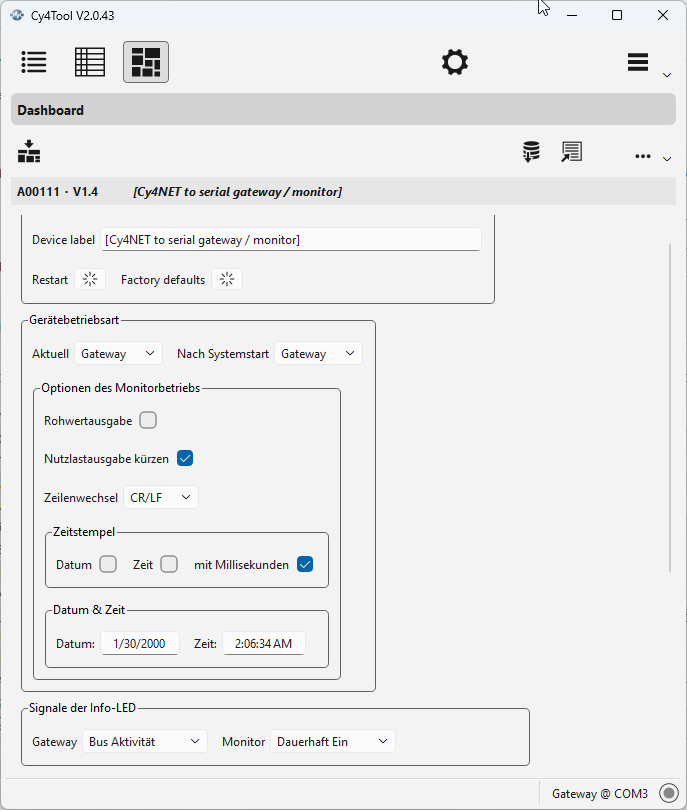
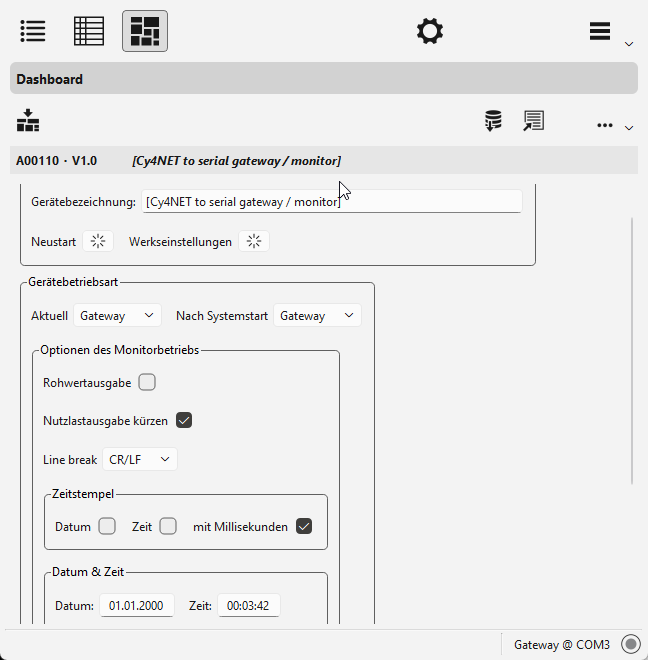
Update some images

diff --git a/Src/Settings.h b/Src/Settings.h
@@ -46,7 +46,7 @@ class Settings
         QLocale         locale                              = QLocale(QLocale::English, QLocale::UnitedStates);
         bool            autoSerialPortDetection             = true;
         QString         gatewaySerialPort                   = QString::fromLatin1(serialPortName);
-        Socket          gatewaySocket                       = Socket(QStringLiteral("192.168.168.29"), 16214);
+        Socket          gatewaySocket                       = Socket(QStringLiteral("192.0.2.1"), 4001);
         ConnectionType  currentGatewayConnection            = ConnectionType::Serial;
         QString         onlineResourcesUrl                  = QStringLiteral("http://www.cy4net.org");
         QString         localCy4ToolDataDirectoryPath       = QDir::toNativeSeparators(QDir::homePath() + "/.Cy4NET");

diff --git a/README_PERIDOT_Nov-24-232903-2026_Conflict.md b/README_PERIDOT_Nov-24-232903-2026_Conflict.md
@@ -1,0 +1,73 @@
+# Cy4Tool
+
+Ein leistungsstarkes PC-Werkzeug für die Administration, Konfiguration und Instandhaltung von **Cy4NET-Komponenten** des freien Peer-To-Peer Kommunikationssystems Cy4NET: https://cy4net.org
+
+## Über die Anwendung
+
+**Cy4Tool** wurde entwickelt, um Anwendern die Handhabung von Cy4NET-Buskomponenten in einem Cy4NET-Netzwerk zu erleichtern. Die Anwendung bündelt wichtige Diagnose-, Wartungs- und Verwaltungsfunktionen in einer übersichtlichen Desktop-Oberfläche. Um mit den Teilnehmern des Cy4NET-Netzwerks in Kontakt zu treten, verbindet sich die Anwendung als Busclient über ein entsprechendes Gateway-Gerät mit dem Bus. Je nach vorhandener Hardware kann die Verbindung mittels USB, RS232 oder TCP hergestellt werden. 
+
+Die Eigenschaften und Funktionen einer Anwendung sind im Cy4NET-Protokoll in Form von Diensten organisiert. Diese Dienste sind im Grunde eine Abstraktion von Speicherbereichen, die beschrieben oder gelesen werden können. Welche Informationen und Datenstrukturen dabei übertragen werden, ist jeweils mit dem Dienst definiert. Mithilfe des Cy4Tools können diese Dienste zur Kontaktierung der Busknoten genutzt werden.
+Die Funktionalität einer Anwendung wird dabei durch eine sogenannte Dienstekarte (Servicemap) abgebildet. Neben den Diensten der Anwendung ist darin auch eine Oberfläche mit Steuerelementen und Widgets definiert, die den Zugriff auf die Komponenten erleichtern. Das Cy4Tool ist somit das Frontend der Cy4NET-Geräte und als basisnahe Serviceschnittstelle zu verstehen.
+
+Auf der Cy4NET-Projekteseite sind mehrere Gateways zu finden. Darunter auch Geräte, die die Funktion eines Gateways als Zusatzleistung bereitstellen.
+* https://cy4net.org/Axxxxx/A00111_GatewayMonitor/A00111Home.html
+* https://cy4net.org/Axxxxx/A00121_Powerstation/A00121Home.html
+* https://cy4net.org/Axxxxx/A00317_Evalboard644PKit/A00317Home.html
+
+### Hauptfunktionen
+* **Liste aller verfügbaren Cy4NET-Geräte im Netzwerk**.
+
+  Neben der Adresse und der Applikations- sowie Boardtypennummer wird auch die Gerätebezeichnung angegeben (insofern die Anwendung eine liefert):
+  
+  ![Cy4NET-Geräteliste](Docs/DeviceList.png)
+* **Liste der Dienste einer Applikation.**
+
+  Die Dienstekarte liefert die von einer Applikation bereitgestellten Dienste. In der ersten Spalte ist der Dienstort (Location) zu sehen, gefolgt von der Dienstebreite. Das ist die Anzahl der zum Dienst gehörenden Speicherzellen in Bytes. In der dritten Spalte ist die Zugriffsart zu sehen, gefolgt vom Namen des Dienstes. Das Cy4Tool liest alle Dienste der Dienstekarte ein, konsolidiert sie und stellt somit diese Liste zusammen.
+  
+  ![Liste der dienste der Anwendung A00111](Docs/ServiceList.png)
+ 
+* **Bedienfeldseite**
+
+  In der Dienstekarte einer Applikation wird neben den Diensten auch ein einfaches Bedienfeld festgelegt, über das auf die eigentlichen Funktionen der Anwendung zugegriffen werden kann. Dazu definiert die Dienstekarte eine hierarchische Struktur aus verschiedenen Steuerelementen (Widgets), die die entsprechende Funktionalität bereitstellen.
+ 
+  ![Bedienfeldseite der Anwendung A00111](Docs/Dashboard.png)
+  
+  Neben diesen Hauptfunktionen ermöglicht das Cy4Tool weitere Hilfsaufgaben wie beispielsweise das Hochladen von Firmwareupdates oder den Direktzugriff auf Daten der Dienste.
+
+  ![Zusatzaufgaben](Docs/FirmwareCustomAccess.png)
+
+## Voraussetzungen
+
+Um Cy4Tool nutzen zu können, muss dein System folgende Anforderungen erfüllen:
+* **Betriebssystem:** [z. B. Windows 10/11, Linux (Ubuntu 22.04+)]
+* **Systemanforderungen:** [z. B. Mindestens 4 GB RAM, 100 MB freier Speicherplatz]
+
+## Installation
+
+Für Windows steht eine ausführbare Installationsdatei zur Verfügung: 👉 **[Cy4Tool Installationsdatei](../../releases)**
+
+> **Hinweis zur Installation:** Da die Datei nicht digital signiert ist, erscheint unter Windows eventuell eine SmartScreen-Warnung. Klicke dort einfach auf **"Weitere Informationen"** und anschließend auf **"Trotzdem ausführen"**.
+
+### Sourcecode:
+
+1. Klone das Repository:
+   ```bash
+   git clone https://github.com/RGrasbon/Cy4Tool.git
+   ```
+2. Cy4Tool ist eine Qt-Anwendung. Öffne CMakeLists.txt in QtCreator oder einer beliebigen IDE, bei der die Biliotheken für Qt6 Widgets zur Verfügung stehen.
+   
+
+
+## Nutzung
+
+1. Verbinde das am Cy4NET angeschlossene Gateway über das Netzwerk, per USB oder über die serielle Schnittstelle mit deinem PC.
+2. Starte **Cy4Tool** und wähle auf der Seite Einstellungen die entsprechende Schnittstelle aus.
+3. Wähle in den Einstellungen die entsprechende Schnittstelle aus und drücke auf „Verbinden”. Wenn ein Gateway gefunden wurde, wird die Geräteliste angezeigt. Das Gateway-Gerät ist blau gekennzeichnet. Fehlende Geräte können nun entweder über die **+**-Schaltfläche oder etwas komfortabler über die Entdecken-Funktion (Discover) in die Liste aufgenommen werden. Zugriffsart und Liste werden gespeichert.
+
+## Mitwirken (Contributing)
+
+Beiträge und Verbesserungsvorschläge sind willkommen! Wenn du einen Fehler findest oder eine Idee für eine neue Funktion hast, erstelle gerne ein **Issue** oder reiche einen **Pull Request** ein. Die Komplette Dokumentantion zum Cy4NET-Protokoll findet sich auf https://cy4net.org. Ebenfalls dort sind bereits bestehende Projekt und Applikationnen zu sehen.
+
+## Lizenz
+
+Dieses Projekt steht unter der **FreeBSD-Lizenz** (2-Clause BSD License). Weitere Details finden sich in der Datei [LICENSE](LICENSE) im Hauptverzeichnis dieses Repositories.
